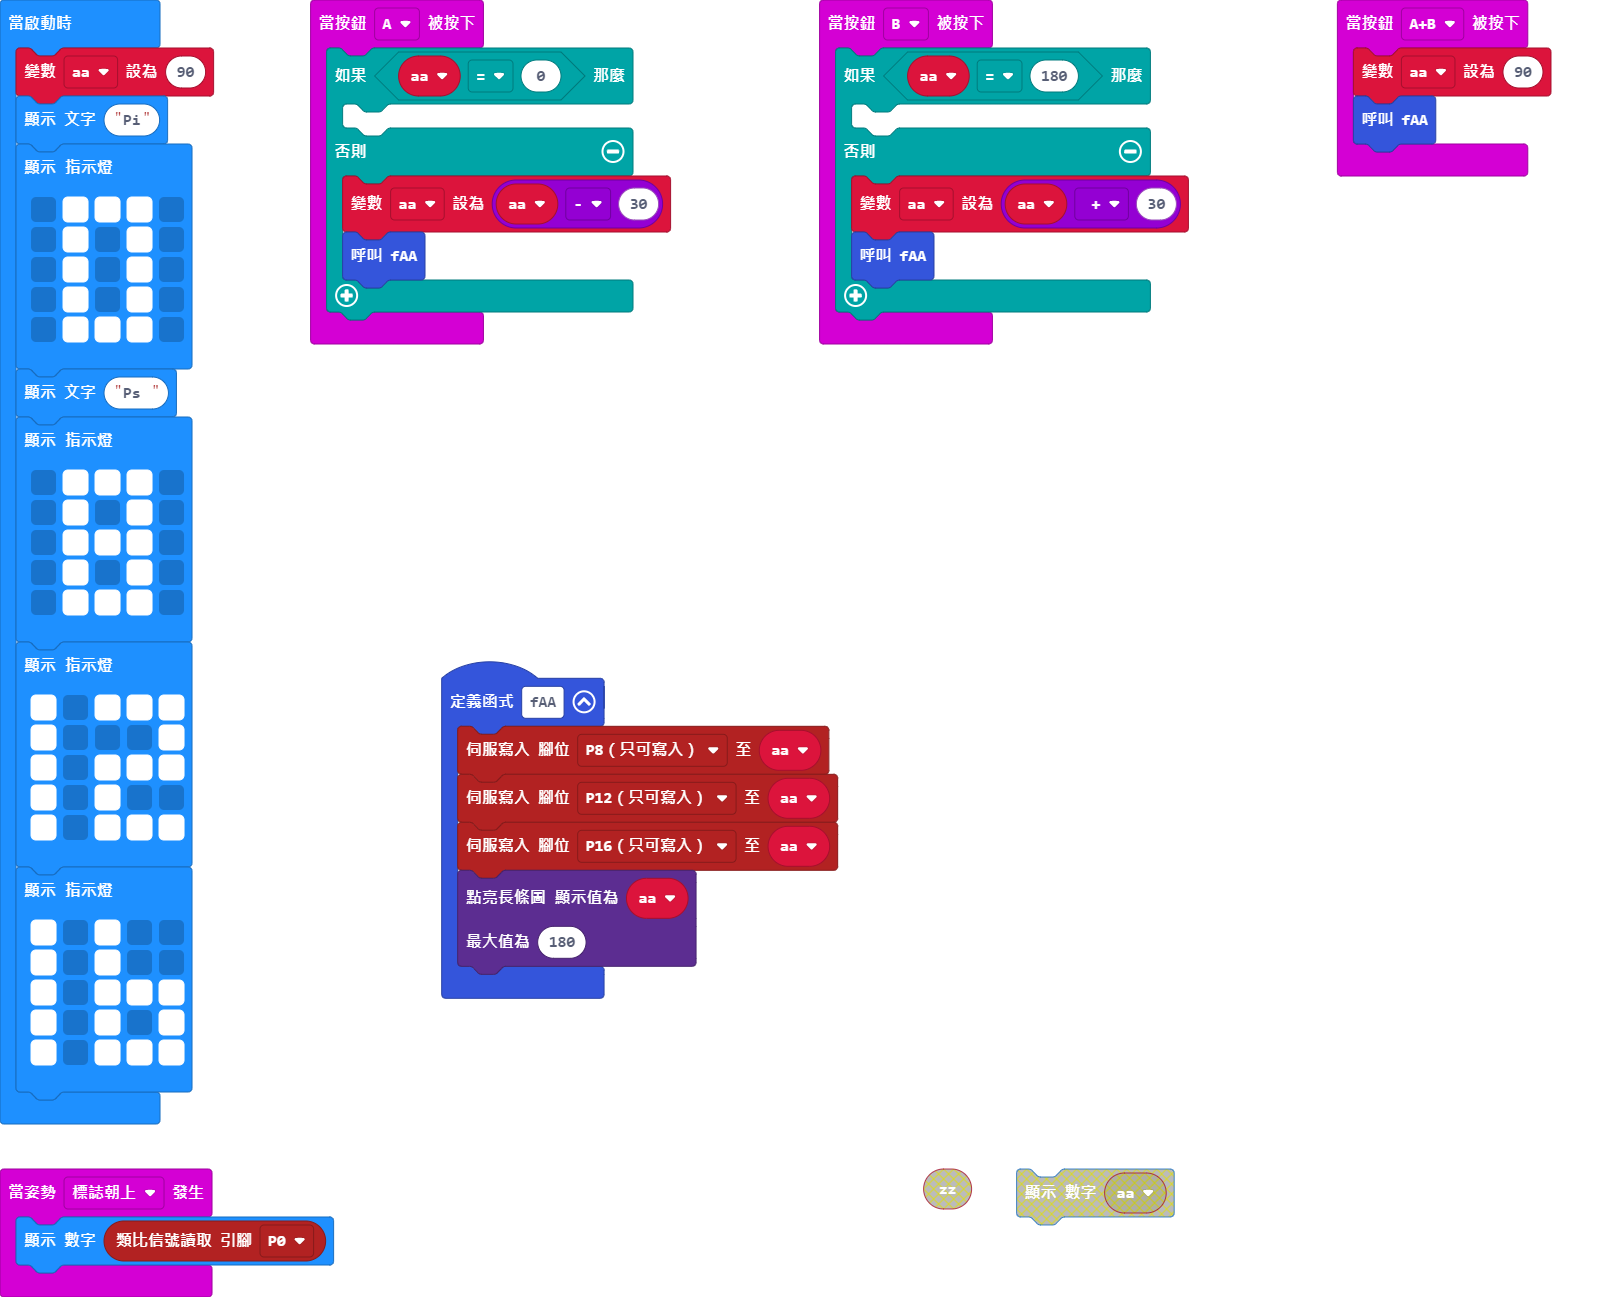
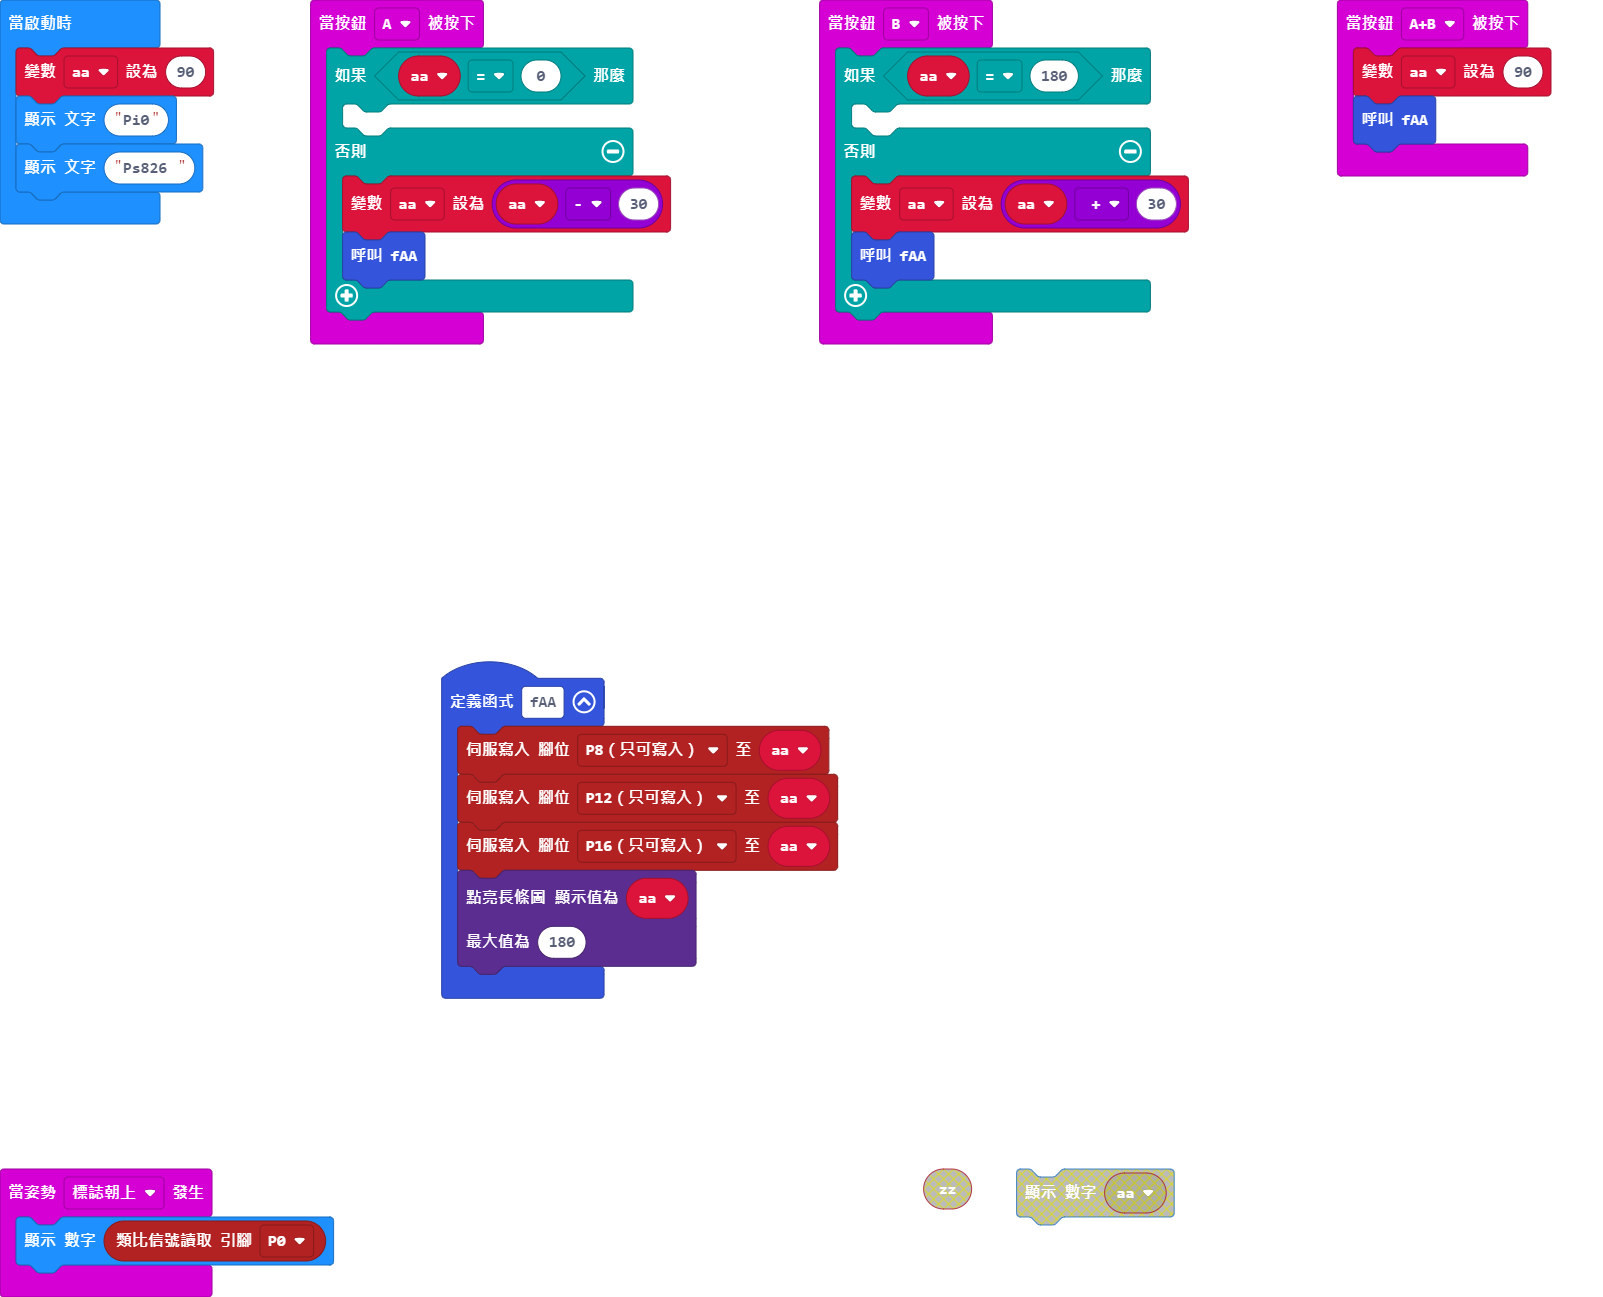
更新 main.blocks, main.ts

Changed region(s): [[0.0, 0.0617, 0.1248, 0.8944]]

diff --git a/main.ts b/main.ts
@@ -32,33 +32,5 @@ input.onButtonPressed(Button.B, function () {
 })
 let aa = 0
 aa = 90
-basic.showString("Pi")
-basic.showLeds(`
-    . # # # .
-    . # . # .
-    . # . # .
-    . # . # .
-    . # # # .
-    `)
-basic.showString("Ps ")
-basic.showLeds(`
-    . # # # .
-    . # . # .
-    . # # # .
-    . # . # .
-    . # # # .
-    `)
-basic.showLeds(`
-    # . # # #
-    # . . . #
-    # . # # #
-    # . # . .
-    # . # # #
-    `)
-basic.showLeds(`
-    # . # . .
-    # . # . .
-    # . # # #
-    # . # . #
-    # . # # #
-    `)
+basic.showString("Pi0")
+basic.showString("Ps826 ")
